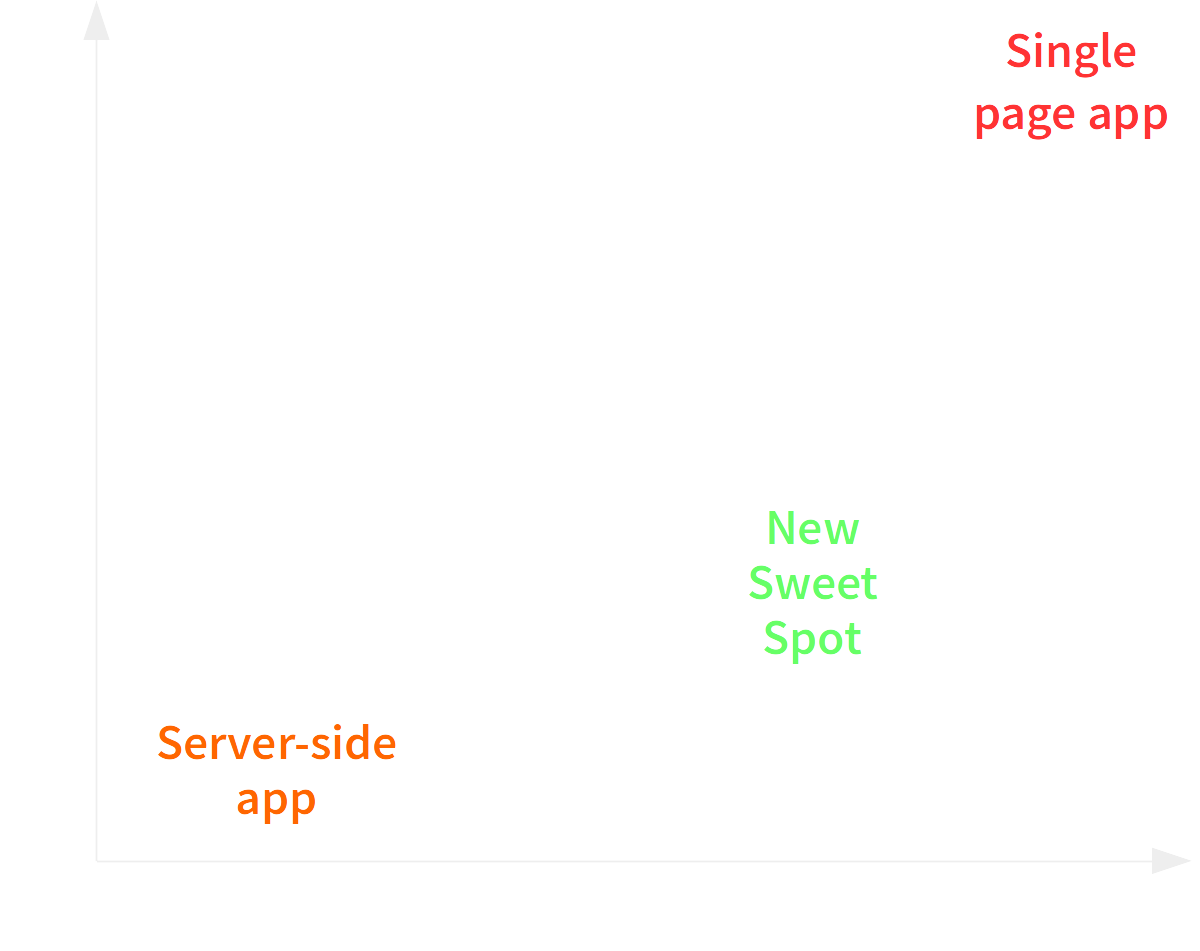
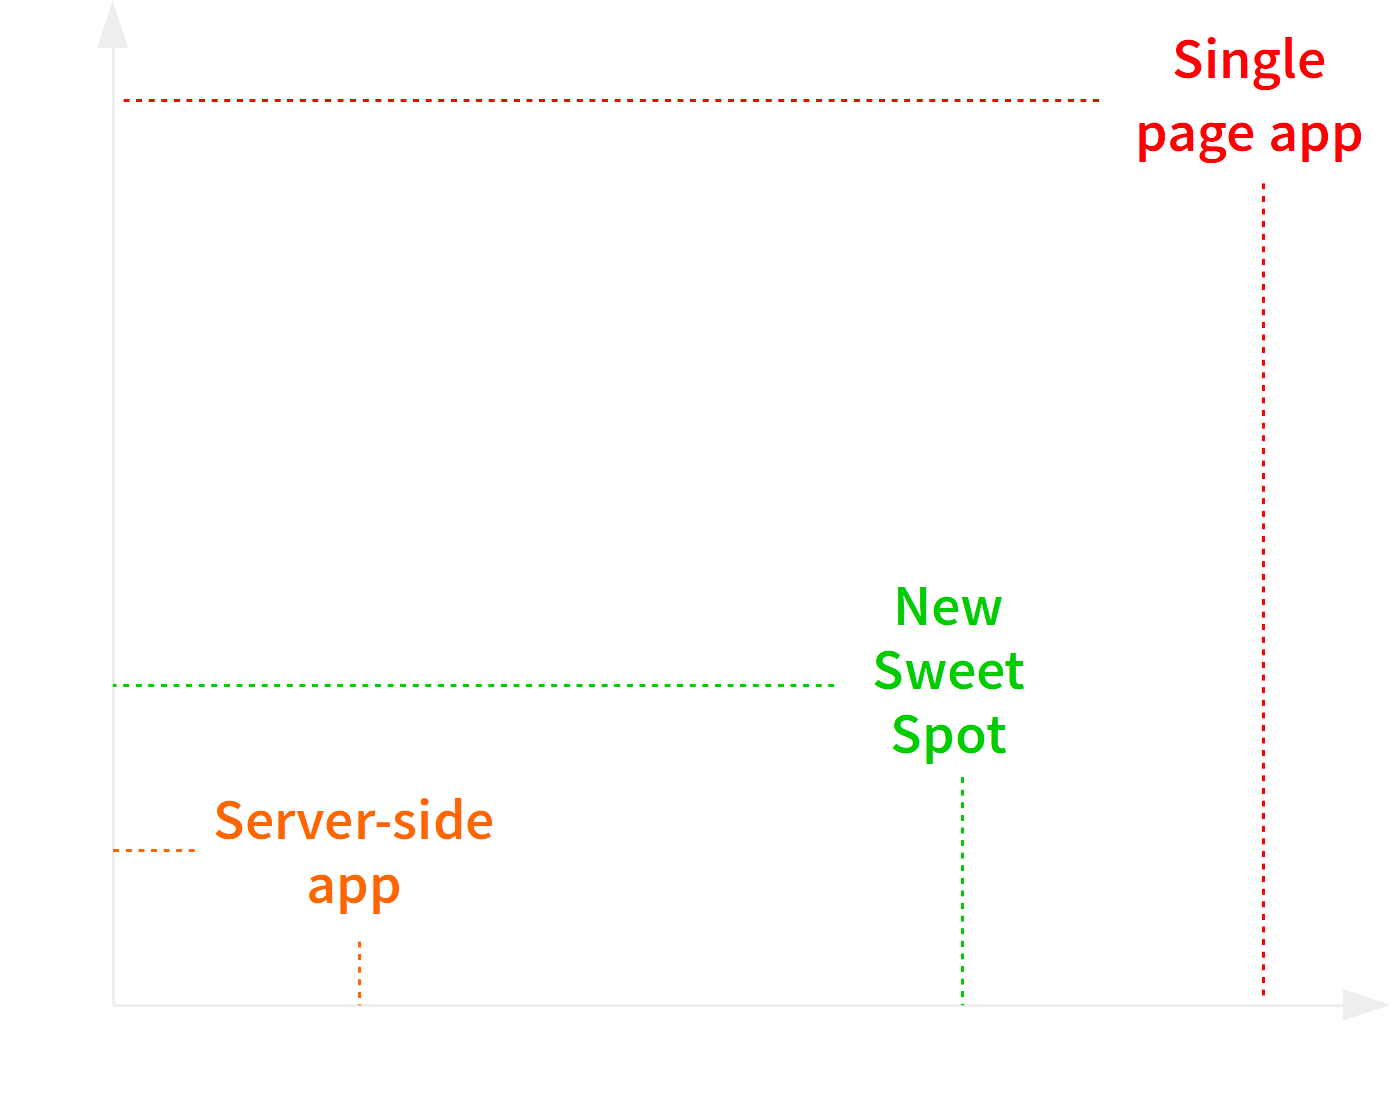
done

Changed region(s): [[0.1233, 0.7014, 0.37, 0.8843], [0.6167, 0.5184, 0.74, 0.7014], [0.8017, 0.0305, 0.9867, 0.1525]]

diff --git a/index.html b/index.html
@@ -574,6 +574,7 @@
               <div class='subtle'>(modals, drop-downs, drawers)</div>
             </li>
             <li>Animation is complicated</li>
+            <li>Complex forms</li>
           </ol>
         </section>
         <section>
@@ -1080,7 +1081,8 @@
         </section>
         <section>
           <h3>
-            <div class='line'>Dual interfaces</div>
+            <div class='subtle'>Composability</div>
+            <div class='line'>JavaScript API</div>
           </h3>
           <p>
             Unpoly's default UJS behavior is a small layer around a JS API.
@@ -1088,25 +1090,27 @@
             You can use this JS API to call Unpoly from your own code:
           </p>
           <h4 class='subtle'><u>U</u>nobtrusive</h4>
-          <pre><code class='html' data-noescape>&lt;a href="full.html" up-target=".story"&gt;Continue&lt;/a&gt;&#x000A;&#x000A;&#x000A;</code></pre>
+          <pre><code class='html' data-noescape>&lt;a href="full.html" up-target=".story"&gt;Continue&lt;/a&gt;&#x000A;</code></pre>
           <h4 class='subtle'><u>P</u>rogrammatic</h4>
           <pre><code class='javascript'>up.replace('.story', 'full.html');&#x000A;</code></pre>
         </section>
         <section>
           <h3>
+            <div class='subtle'>Composability</div>
             <div class='line'>Events</div>
           </h3>
           <pre><code class='javascript'>$(document).on('up:modal:open', function(event) {&#x000A;  if (dontLikeModals()) {&#x000A;    event.preventDefault();&#x000A;  }&#x000A;});&#x000A;</code></pre>
         </section>
         <section>
           <h3>
+            <div class='subtle'>Composability</div>
             <div class='line'>Invent your own UJS syntax</div>
           </h3>
           <h4 class='subtle'>HTML</h4>
           <pre><code class='html' data-noescape>&lt;a <mark>menu-link</mark> href="/details"&gt;Show more&lt;/span&gt;&#x000A;</code></pre>
           <div class='fragment'>
             <h4 class='subtle'>JavaScript</h4>
-            <pre><code class='javascript'>up.compiler('[menu-link]', function($link) {&#x000A;  $link.on('click', function(event) {&#x000A;    event.preventDefault();&#x000A;    up.popup.attach($link, {&#x000A;      target: '.menu',&#x000A;      position: 'bottom-left',&#x000A;      animation: 'roll-down'&#x000A;    });&#x000A;  });&#x000A;});&#x000A;&#x000A;</code></pre>
+            <pre><code class='javascript'>up.compiler('[menu-link]', function($link) {&#x000A;  $link.on('click', function(event) {&#x000A;    event.preventDefault();&#x000A;    up.popup.attach($link, {&#x000A;      target: '.menu',&#x000A;      position: 'bottom-left',&#x000A;      animation: 'roll-down'&#x000A;    });&#x000A;  });&#x000A;});&#x000A;</code></pre>
           </div>
         </section>
         <section>
@@ -1138,11 +1142,11 @@
           <ul>
             <li>Submitting a form via AJAX</li>
             <li>File uploads via AJAX</li>
-            <li>Detecting redirects</li>
-            <li>Dealing with validation errors</li>
+            <li>Detecting redirects of an AJAX form submission</li>
+            <li>Dealing with validation errors of an AJAX form submission</li>
             <li>Server-side validations without a page load</li>
             <li>Dependencies between fields</li>
-            <li>Submitting a form within a modal and staying within the modal</li>
+            <li>Submitting a form within a modal while keeping the modal open</li>
           </ul>
           <p class='green'>
             These are all solved by Unpoly.
@@ -1237,12 +1241,60 @@
           <p>
             In the example below we load a list of employees when the user selects a department:
           </p>
-          <pre class='s'><code class='html' data-noescape>&lt;form action="/contracts"&gt;&#x000A;  &lt;select name="department" <mark>up-validate="[name=employee]"</mark>&gt;...&lt;/select&gt;&#x000A;  &lt;select name="employee"&gt;...&lt;/select&gt;&#x000A;&lt;/form&gt;&#x000A;</code></pre>
+          <pre class='s'><code class='html' data-noescape>&lt;form action="/contracts"&gt;&#x000A;  &lt;select name="department" <mark>up-validate="[name=employee]"</mark>&gt;...&lt;/select&gt;&#x000A;  &lt;select name="employee"&gt;...&lt;/select&gt;&#x000A;&lt;/form&gt;&#x000A;&#x000A;</code></pre>
         </section>
         <section>
-          <h3>Getting started</h3>
+          <h3>
+            What server-side apps
+            <div class='red'>
+              don't do well
+            </div>
+          </h3>
+          <ol>
+            <li>Slow interaction feedback</li>
+            <li>
+              Page loads destroy transient state
+              <div class='subtle'>(scroll positions, unsaved form values, focus)</div>
+            </li>
+            <li>
+              Layered interactions are hard
+              <div class='subtle'>(modals, drop-downs, drawers)</div>
+            </li>
+            <li>Animation is complicated</li>
+            <li>Complex forms</li>
+          </ol>
+        </section>
+        <section>
+          <h3>
+            What server-side apps
+            <div class='blue'>
+              can actually be okay at
+            </div>
+          </h3>
+          <ol>
+            <li>Slow interaction feedback</li>
+            <li>
+              Page loads destroy transient state
+              <div class='subtle'>(scroll positions, unsaved form values, focus)</div>
+            </li>
+            <li>
+              Layered interactions are hard
+              <div class='subtle'>(modals, drop-downs, drawers)</div>
+            </li>
+            <li>Animation is complicated</li>
+            <li>Complex forms</li>
+          </ol>
+        </section>
+        <section>
+          <img height='600' src='pictures/trade_off.png'>
+        </section>
+        <section>
+          <h2>Getting started</h2>
           <ul>
-            <li>Read through <a href="http://unpoly.com">unpoly.com</a></li>
+            <li>
+              Check out <a href="http://unpoly.com">unpoly.com</a>
+              to get an overview of what's included
+            </li>
             <li><code class='blue'>gem 'unpoly-rails'</code> (<a href="http://unpoly.com/download">other methods</a>)</li>
             <li>Replace half your JavaScript with <code class='blue'>up-target</code> attributes</li>
             <li>Convert remaining JavaScripts into <code class='blue'>up.compiler</code></li>
